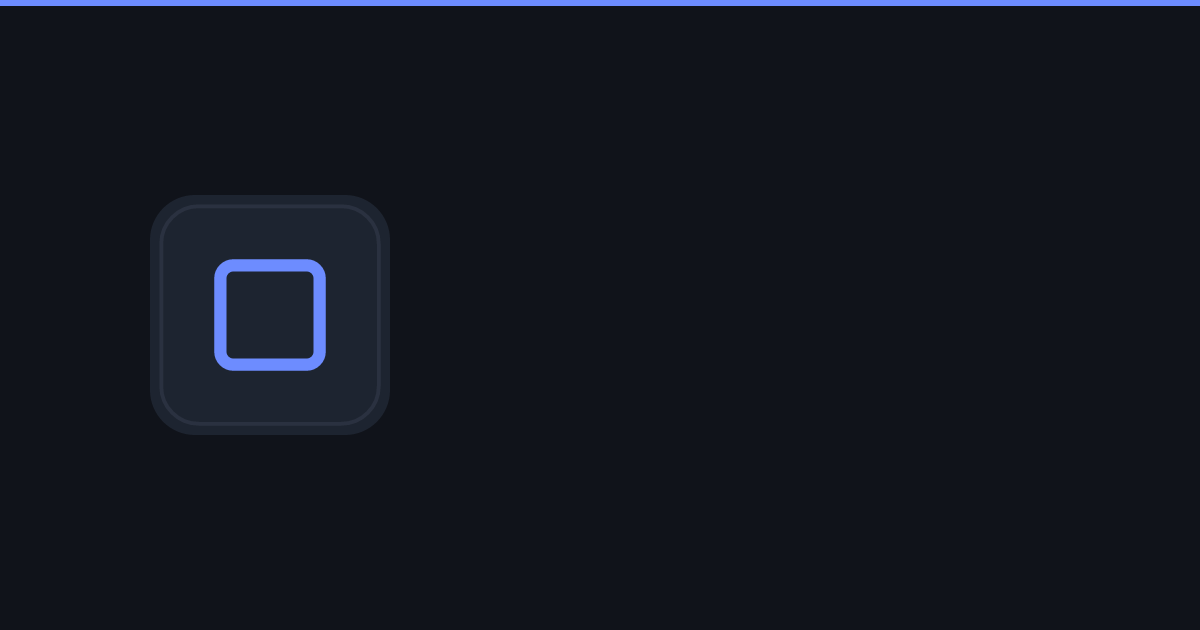
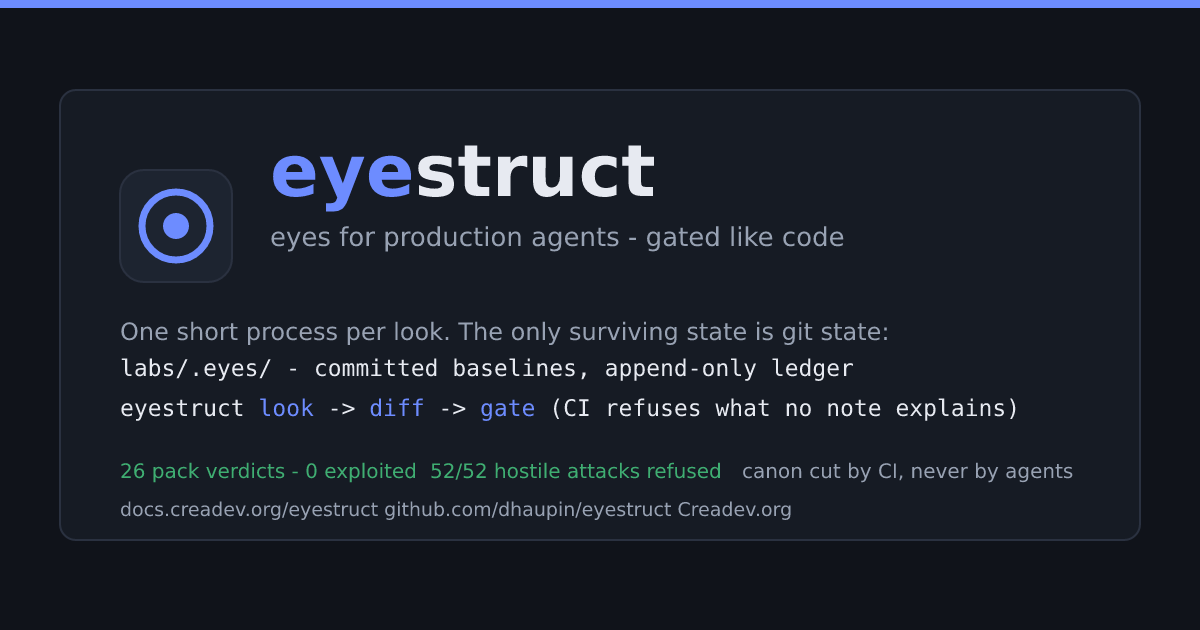
web: live gate-status island + real og-image card + footer Releases link
- GateStatusIsland: the orphaned dash-* CSS brought to life. Idle-mounted
  island fetches the COMMITTED ledgers from main at load
  (packs/eye-ledger.json + labs/crashledger.json off
  raw.githubusercontent) and renders the project's own adversarial
  status: totals, verdict mix, exploited count. No server, no fabricated
  numbers; fetch failure names the source files instead of guessing.
  Islands registry gains its first entry (component form - islands.js
  renders via React.createElement directly); CSP grows one connect-src
  origin (raw.githubusercontent.com).
- og-image.png: the anonymous template card replaced with an identity
  card (wordmark, tagline, terminal lines, receipt counts in moss).
  Generator committed at web/scripts/og-image.mjs; the build-local font
  rides --no-save dejavu-fonts-ttf so the lockfile stays untouched.
  The card's numbers are the claim-inventory receipts.
- Footer gains a Releases link.

npm run check green; prestruct build green (island placeholder prerendered,
og-image copied to dist).

Generated with Codebuff 🤖

diff --git a/web/src/components/GateStatusIsland.jsx b/web/src/components/GateStatusIsland.jsx
@@ -1,0 +1,135 @@
+/**
+ * components/GateStatusIsland.jsx - the landing's live status island.
+ *
+ * Runs only in the browser (never prerendered - island contract: no props,
+ * reads remote data, replaces the pre-island fallback after hydration).
+ *
+ * Honest-data rule: every number here is fetched at load from the repo's
+ * COMMITTED ledgers on main - the same files a fresh agent session reads.
+ * No server, no hidden state, no fabricated dashboards:
+ *
+ *   packs/eye-ledger.json  { schemaVersion, rows:  [{ pack, id, verdict, reason }] }
+ *   labs/crashledger.json  { schemaVersion, findings: [{ id, verdict, detail }] }
+ *
+ * On fetch failure the island says so plainly and names the source files -
+ * it never renders a guessed status.
+ */
+import { useEffect, useState } from 'react'
+
+const RAW =
+  'https://raw.githubusercontent.com/dhaupin/eyestruct/main/'
+
+async function fetchJson(rel, signal) {
+  const res = await fetch(RAW + rel, { signal })
+  if (!res.ok) throw new Error(`${rel}: HTTP ${res.status}`)
+  const data = await res.json()
+  if (data.schemaVersion !== 1) throw new Error(`${rel}: unsupported schemaVersion ${data.schemaVersion}`)
+  return data
+}
+
+function tally(rows) {
+  const verdicts = { REFUSED: 0, PASSED: 0, BOUNDED: 0, EXPLOITED: 0 }
+  const packs = new Set()
+  for (const r of rows) {
+    if (verdicts[r.verdict] === undefined) verdicts[r.verdict] = 0
+    verdicts[r.verdict] += 1
+    packs.add(r.pack)
+  }
+  return { verdicts, packs: packs.size }
+}
+
+export default function GateStatusIsland() {
+  const [state, setState] = useState({ status: 'loading' })
+
+  useEffect(() => {
+    const ctrl = new AbortController()
+    ;(async () => {
+      try {
+        const [packs, crash] = await Promise.all([
+          fetchJson('packs/eye-ledger.json', ctrl.signal),
+          fetchJson('labs/crashledger.json', ctrl.signal),
+        ])
+        const p = tally(packs.rows)
+        const c = tally(crash.findings)
+        const total = packs.rows.length + crash.findings.length
+        const exploited = p.verdicts.EXPLOITED + c.verdicts.EXPLOITED
+        const refused = p.verdicts.REFUSED + c.verdicts.REFUSED
+        setState({
+          status: 'ok',
+          total,
+          refused,
+          passed: p.verdicts.PASSED,
+          bounded: p.verdicts.BOUNDED,
+          exploited,
+          packRows: packs.rows.length,
+          packCount: p.packs,
+          crashFindings: crash.findings.length,
+        })
+      } catch (err) {
+        if (ctrl.signal.aborted) return
+        setState({ status: 'error', message: String(err.message || err) })
+      }
+    })()
+    return () => ctrl.abort()
+  }, [])
+
+  if (state.status === 'loading') {
+    return <p className="island-loading">Reading the committed ledgers on main (packs/eye-ledger.json, labs/crashledger.json)...</p>
+  }
+
+  if (state.status === 'error') {
+    return (
+      <div className="dash-error" role="status">
+        Could not fetch the committed ledgers from main ({state.message}). The
+        committed files are the source of truth:
+        <code> packs/eye-ledger.json </code>and
+        <code> labs/crashledger.json</code>.
+      </div>
+    )
+  }
+
+  const gateState = state.exploited === 0 ? 'is-pass' : 'is-fail'
+  const gateChip = state.exploited === 0 ? 'PASS' : 'RED'
+
+  return (
+    <>
+      <div className={`dash-gate ${gateState}`}>
+        <div className="dash-gate-glyph" aria-hidden="true">{gateState === 'is-pass' ? '✓' : '!'}</div>
+        <div>
+          <div className="dash-gate-title">
+            Adversarial status of the committed tree
+            <span className="dash-gate-chip">{gateChip}</span>
+          </div>
+          <div className="dash-gate-sub">
+            Fetched live from main's committed ledgers - the same files a fresh
+            agent session owns. Verdict mix at fetch time:
+            <code> {state.refused} refused</code>,
+            <code> {state.passed} passed</code>,
+            <code> {state.bounded} bounded</code>,
+            <code> {state.exploited} exploited</code>.
+          </div>
+        </div>
+      </div>
+      <div className="dash-stats">
+        <div className="dash-stat">
+          <b>{state.total}</b>
+          <span>verdicts on main</span>
+        </div>
+        <div className="dash-stat">
+          <b>{state.packRows}</b>
+          <span>pack cases / {state.packCount} packs</span>
+        </div>
+        <div className="dash-stat">
+          <b>{state.crashFindings}</b>
+          <span>hostile attacks, all refused</span>
+        </div>
+        <div className="dash-stat">
+          <b className={state.exploited === 0 ? 'verdict-ok' : 'verdict-bad'}>
+            {state.exploited}
+          </b>
+          <span>exploited, ever</span>
+        </div>
+      </div>
+    </>
+  )
+}

diff --git a/web/src/pages/Home.jsx b/web/src/pages/Home.jsx
@@ -191,6 +191,21 @@ export default function Home() {
 
       <section className="section">
         <div className="wrap">
+          <h2>The committed memory, live</h2>
+          <p className="sub">
+            This page reads eyestruct's own memory from main the way a fresh
+            agent session would: the committed ledger files in git, fetched at
+            load - no server, no hidden state, and no numbers fresher than the
+            commits. Counts below update when the ledgers update.
+          </p>
+          <pre-island data-pre-island="gate-status" data-pre-load="idle">
+            <span className="island-loading">Loading live status from the committed ledgers on main...</span>
+          </pre-island>
+        </div>
+      </section>
+
+      <section className="section">
+        <div className="wrap">
           <h2>Install</h2>
           <p className="sub">
             A Node 20 CLI, no daemons, no background services of any kind.

diff --git a/web/src/styles.css b/web/src/styles.css
@@ -216,6 +216,9 @@ table.attacks td.mod { font-family: ui-monospace, monospace; color: var(--accent
 table.attacks td .what { color: var(--ink); }
 table.attacks td .why { color: var(--ink-soft); font-size: 12.5px; }
 .shipped { color: var(--moss); font-weight: 600; }
+/* island fallback (mounts client-side; the span shows while pending) */
+.island-loading { color: var(--ink-soft); font-size: 13px; display: block; padding: 8px 0; }
+.island-loading + * { margin-top: 0; }
 /* verdict cells (landing attacks table): semantic color only where a verdict
    earns it - moss for a refused attack (a win), accent for a docketed bound. */
 .verdict-ok { color: var(--moss); font-weight: 600; white-space: nowrap; }

diff --git a/web/src/AppIslands.jsx b/web/src/AppIslands.jsx
@@ -25,6 +25,11 @@
  *   <pre-island data-pre-island="promo-banner" data-pre-load="idle" />
  */
 
+import GateStatusIsland from './components/GateStatusIsland.jsx'
+
 export const islands = {
-  // 'your-island': YourIsland,
+  // LandingPage live status - reads the committed ledgers on main.
+  // Registry values are component functions (islands.js renders them via
+  // React.createElement directly, no wrapper allowed).
+  'gate-status': GateStatusIsland,
 }

diff --git a/web/src/components/navItems.js b/web/src/components/navItems.js
@@ -20,6 +20,7 @@ export const NAV_ITEMS = [
  * the nav; provenance links belong in the footer, not the header.
  */
 export const FOOTER_EXTRAS = [
+  { label: 'Releases', href: 'https://github.com/dhaupin/eyestruct/releases' },
   { label: 'Terms', href: '/terms' },
   { label: 'Privacy', href: '/privacy' },
 ]

diff --git a/labs/TASKS.md b/labs/TASKS.md
@@ -1,5 +1,26 @@
 # eyestruct - rolling work log
 
+- **Site passes (2026-10-27, evening).** (1) The mobile table guard landed
+  and got filed family-wide (flowforge#13, gistory#16, crashtest#41,
+  prestruct#62, packstruct#31, poststruct#14 + monoforge#7, freestruct#35
+  engine ask, vant#263) - with a vant#223 incident documented honestly in
+  vant#262 (agent overwrote another issue's body mid-filing; maintainer
+  restored from GitHub edit history). (2) Docs UX repairs (d26fdfc): brand
+  home baseurl-aware, Release posts in the nav, lean discussions index.
+  (3) The landing flesh-out (e90a4a1): three-part contract cards, the
+  two-dispatch pipeline, the self-policing verdict table (52/52 REFUSED),
+  install block - all on existing tokens. (4) robots.txt residue caught and
+  fixed (0a54997: crawlers were pointed at crashtest's sitemap); family
+  sweep + flowforge#16 (the template file is the crashtest blob
+  byte-identical). (5) Site P1-P3: footer Releases link, a real og-image
+  card (generator committed at web/scripts/og-image.mjs; build-local
+  dejavu-fonts-ttf via --no-save, lockfile untouched; numbers are the
+  claim-inventory receipts), and the live gate-status island
+  (GateStatusIsland, idle-mounted; fetches packs/eye-ledger.json +
+  labs/crashledger.json from raw.githubusercontent at load - CSP grew one
+  origin). Release-day hooks unchanged: the card's numbers, the landing
+  claims, and the discussions watchlist are the same five receipts,
+  re-verified together when 0.9.0 publishes.
 - **Scaffold pass (2026-10-25).** Repo shell staged at gistory's workspace
   from the flowforge rig @ 91e52e0 (the poststruct 0.9.0 rigging):
   web/ landing shell, docs/ on the rig layout with checker gates
